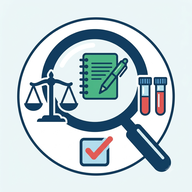
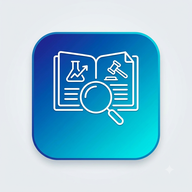
Add files via upload

diff --git a/service-worker.js b/service-worker.js
@@ -1,4 +1,4 @@
-const CACHE_NAME = 'lector-resultados-v31';
+const CACHE_NAME = 'lector-resultados-v33';
 const APP_SHELL = [
   './index.html',
   './manifest.json',